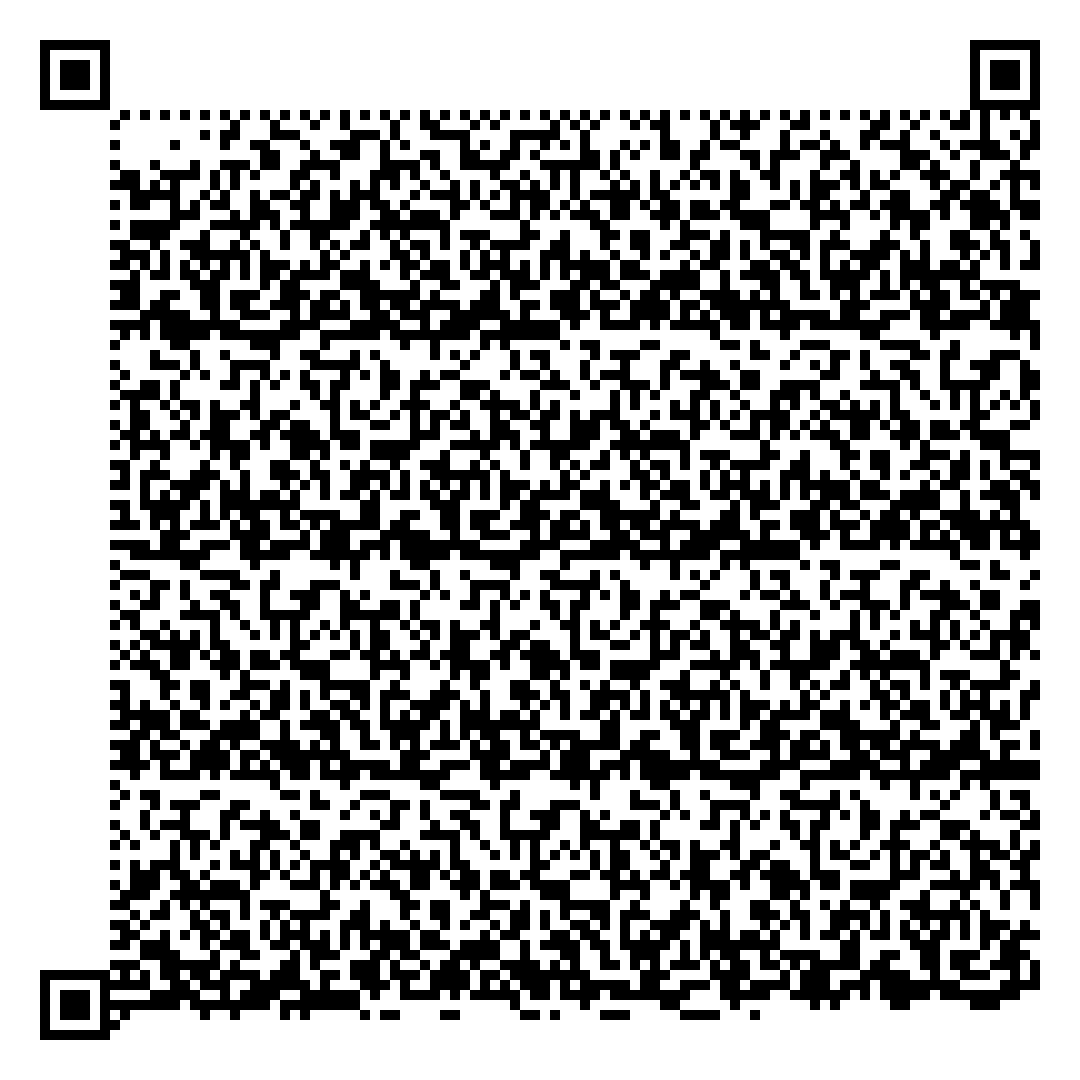
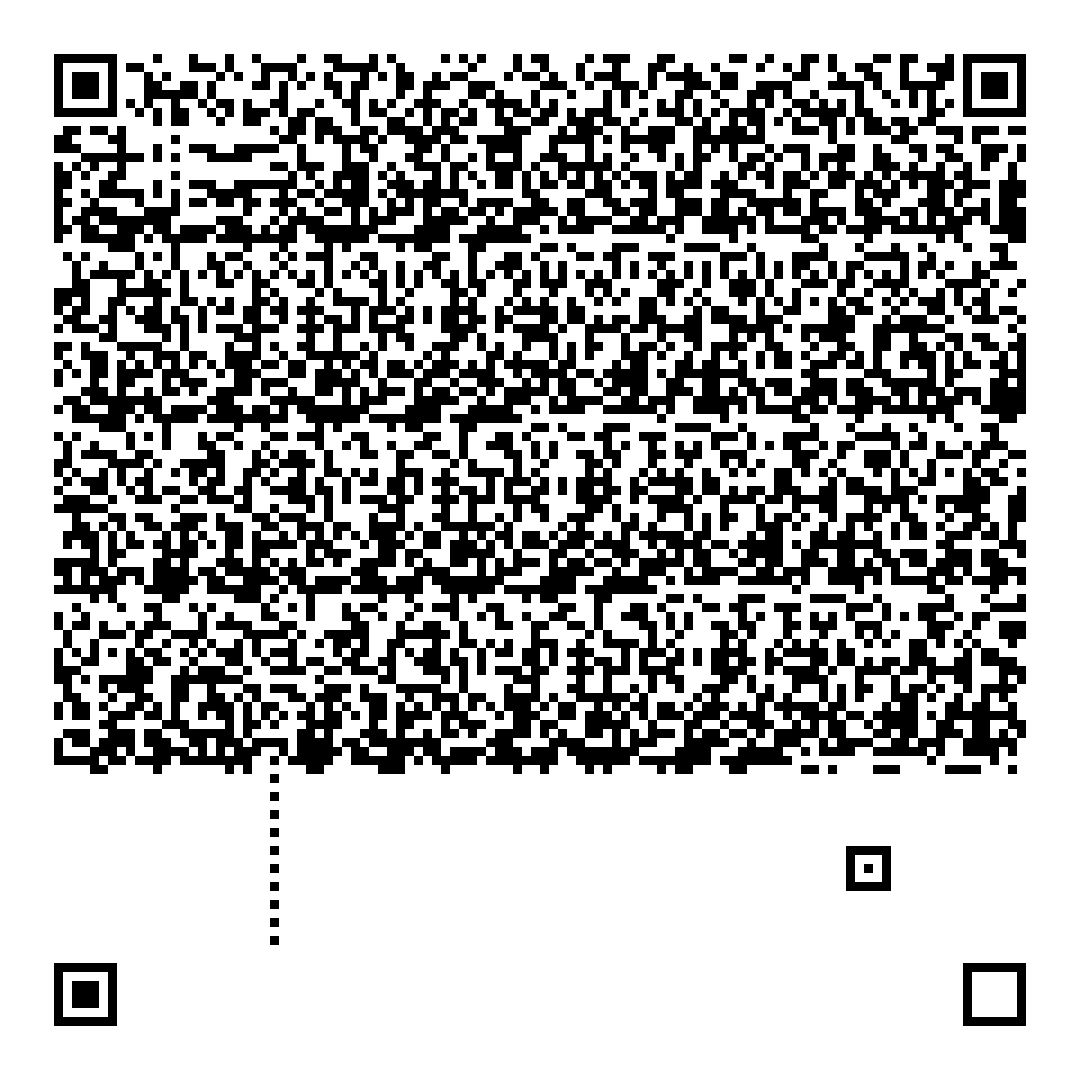
样例文件替换

diff --git a/src/encoder.cpp b/src/encoder.cpp
@@ -117,15 +117,18 @@ bool WriteManifest(const std::filesystem::path& manifest_path,
         return false;
     }
 
-    stream << "protocol_id\tfile\tframe_seq\tpayload_len\tcrc32_payload\tcrc32_header\n";
+    stream << "file\tframe_seq\tpayload_len\tcrc32_payload\tprotocol_id\tcrc32_header\tmodule_px\tlogical_grid_size\n";
     for (std::size_t index = 0; index < frames.size(); ++index) {
-        stream << protocol_v1::kProtocolId << '\t'
-               << FrameFileName(index) << '\t'
+        stream << FrameFileName(index) << '\t'
                << frames[index].header.frame_seq << '\t'
                << frames[index].header.payload_len_bytes << '\t'
                << std::uppercase << std::hex << std::setw(8) << std::setfill('0')
-               << frames[index].header.crc32_payload << '\t'
-               << std::setw(8) << frames[index].header.crc32_header
+               << frames[index].header.crc32_payload << std::dec << '\t'
+               << protocol_v1::kProtocolId << '\t'
+               << std::uppercase << std::hex << std::setw(8) << frames[index].header.crc32_header
+               << std::dec << '\t'
+               << protocol_v1::kModulePixels << '\t'
+               << protocol_v1::kLogicalGridSize
                << std::dec << '\n';
     }
     return true;
@@ -257,6 +260,25 @@ int CellToPixel(int coordinate, int module_pixels) {
     return protocol_v1::kQuietZonePixels + coordinate * module_pixels;
 }
 
+cv::Mat BuildPreviewLogicalFrame() {
+    cv::Mat logical_frame(protocol_v1::kLogicalGridSize, protocol_v1::kLogicalGridSize, CV_8UC1,
+                          cv::Scalar(255));
+
+    DrawFinder(logical_frame, kFinderTopLeftOrigin, kFinderTopLeftOrigin, false);
+    DrawFinder(logical_frame, kFinderTopRightOrigin, kFinderTopLeftOrigin, false);
+    DrawFinder(logical_frame, kFinderTopLeftOrigin, kFinderBottomLeftOrigin, false);
+    DrawFinder(logical_frame, kFinderTopRightOrigin, kFinderTopRightOrigin, true);
+    DrawTimingPatterns(logical_frame);
+    DrawAlignment(logical_frame);
+
+    for (const GridPoint& cell : protocol_v1::PayloadCells()) {
+        const bool black = ((cell.x + cell.y) % 2) == 0;
+        SetCell(logical_frame, cell.x, cell.y, black);
+    }
+
+    return logical_frame;
+}
+
 }  // namespace
 
 std::vector<uint8_t> ReadFileBytes(const std::filesystem::path& input_path) {
@@ -368,53 +390,79 @@ cv::Mat RenderPhysicalFrame(const cv::Mat& logical_frame, int module_pixels) {
 
 cv::Mat RenderLayoutGuide(int module_pixels) {
     const FrameHeader empty_header = MakeHeader(0, {});
-    cv::Mat guide = RenderPhysicalFrame(RenderLogicalFrame(empty_header, {}), module_pixels);
+    cv::Mat layout_panel = RenderPhysicalFrame(RenderLogicalFrame(empty_header, {}), module_pixels);
+    cv::Mat sample_panel = RenderPhysicalFrame(BuildPreviewLogicalFrame(), module_pixels);
 
     const int grid_px = protocol_v1::kLogicalGridSize * module_pixels;
     const int grid_offset = (protocol_v1::kPhysicalOutputPixels - grid_px) / 2;
 
-    cv::rectangle(guide,
+    cv::rectangle(layout_panel,
                   cv::Rect(grid_offset, grid_offset, grid_px, grid_px),
                   cv::Scalar(120, 120, 120), 2);
-    cv::rectangle(guide,
+    cv::rectangle(layout_panel,
+                  cv::Rect(CellToPixel(0, module_pixels),
+                           CellToPixel(0, module_pixels),
+                           protocol_v1::kFinderReserveSizeModules * module_pixels,
+                           protocol_v1::kFinderReserveSizeModules * module_pixels),
+                  cv::Scalar(90, 90, 180), 2);
+    cv::rectangle(layout_panel,
                   cv::Rect(CellToPixel(protocol_v1::kHeaderOriginX, module_pixels),
                            CellToPixel(protocol_v1::kHeaderOriginY, module_pixels),
                            protocol_v1::kHeaderWidthModules * module_pixels,
                            protocol_v1::kHeaderHeightModules * module_pixels),
                   cv::Scalar(0, 0, 220), 2);
-    cv::rectangle(guide,
+    cv::rectangle(layout_panel,
+                  cv::Rect(CellToPixel(8, module_pixels),
+                           CellToPixel(8, module_pixels),
+                           (100 - 8) * module_pixels,
+                           (100 - 8) * module_pixels),
+                  cv::Scalar(20, 60, 220), 2);
+    cv::rectangle(layout_panel,
                   cv::Rect(CellToPixel(protocol_v1::kAlignmentOriginX, module_pixels),
                            CellToPixel(protocol_v1::kAlignmentOriginY, module_pixels),
                            protocol_v1::kAlignmentSizeModules * module_pixels,
                            protocol_v1::kAlignmentSizeModules * module_pixels),
-                  cv::Scalar(0, 160, 0), 2);
-    cv::line(guide,
+                  cv::Scalar(0, 160, 140), 2);
+    cv::line(layout_panel,
              cv::Point(CellToPixel(protocol_v1::kTimingStart, module_pixels), CellToPixel(protocol_v1::kTimingHorizontalY, module_pixels)),
              cv::Point(CellToPixel(protocol_v1::kTimingEnd + 1, module_pixels), CellToPixel(protocol_v1::kTimingHorizontalY, module_pixels)),
              cv::Scalar(255, 120, 0), 2);
-    cv::line(guide,
+    cv::line(layout_panel,
              cv::Point(CellToPixel(protocol_v1::kTimingVerticalX, module_pixels), CellToPixel(protocol_v1::kTimingStart, module_pixels)),
              cv::Point(CellToPixel(protocol_v1::kTimingVerticalX, module_pixels), CellToPixel(protocol_v1::kTimingEnd + 1, module_pixels)),
              cv::Scalar(255, 120, 0), 2);
 
-    cv::putText(guide, "V1.6-108-4F layout", cv::Point(20, 35), cv::FONT_HERSHEY_SIMPLEX,
-                0.8, cv::Scalar(20, 20, 20), 2);
-    cv::putText(guide, "Quiet zone: 6 modules (54 px)", cv::Point(20, 68), cv::FONT_HERSHEY_SIMPLEX,
-                0.65, cv::Scalar(20, 20, 20), 2);
-    cv::putText(guide, "Grid: 108x108, module=9 px", cv::Point(20, 98), cv::FONT_HERSHEY_SIMPLEX,
-                0.65, cv::Scalar(20, 20, 20), 2);
-    cv::putText(guide, "Header: 16x10 @ (8,8)", cv::Point(20, 128), cv::FONT_HERSHEY_SIMPLEX,
-                0.65, cv::Scalar(0, 0, 220), 2);
-    cv::putText(guide, "Timing H: y=24, x=8..99", cv::Point(20, 158), cv::FONT_HERSHEY_SIMPLEX,
-                0.62, cv::Scalar(255, 120, 0), 2);
-    cv::putText(guide, "Timing V: x=24, y=8..99", cv::Point(20, 188), cv::FONT_HERSHEY_SIMPLEX,
-                0.62, cv::Scalar(255, 120, 0), 2);
-    cv::putText(guide, "Alignment: 5x5 @ (88,88)", cv::Point(20, 218), cv::FONT_HERSHEY_SIMPLEX,
-                0.62, cv::Scalar(0, 160, 0), 2);
-    cv::putText(guide, "Payload max (demo): 1024 bytes", cv::Point(20, 248), cv::FONT_HERSHEY_SIMPLEX,
-                0.62, cv::Scalar(40, 40, 160), 2);
+    cv::putText(layout_panel, "Quiet zone: 6 modules (54 px)", cv::Point(18, 34), cv::FONT_HERSHEY_SIMPLEX,
+                0.6, cv::Scalar(20, 20, 20), 2);
+    cv::putText(layout_panel, "Grid: 108x108, module: 9 px (preview scaled)", cv::Point(18, 62), cv::FONT_HERSHEY_SIMPLEX,
+                0.6, cv::Scalar(20, 20, 20), 2);
+    cv::putText(layout_panel, "Finder reserve: 8x8 each", cv::Point(40, 140), cv::FONT_HERSHEY_SIMPLEX,
+                0.58, cv::Scalar(90, 90, 180), 2);
+    cv::putText(layout_panel, "Header: 16x10 (160 bits)", cv::Point(130, 140), cv::FONT_HERSHEY_SIMPLEX,
+                0.58, cv::Scalar(0, 0, 220), 2);
+    cv::putText(layout_panel, "Payload scan area: 108x108 minus reserved mask", cv::Point(140, 175), cv::FONT_HERSHEY_SIMPLEX,
+                0.58, cv::Scalar(20, 60, 220), 2);
+    cv::putText(layout_panel, "Timing H: y=24, x=8..99", cv::Point(140, 228), cv::FONT_HERSHEY_SIMPLEX,
+                0.58, cv::Scalar(255, 120, 0), 2);
+    cv::putText(layout_panel, "Timing V: x=24, y=8..99", cv::Point(140, 870), cv::FONT_HERSHEY_SIMPLEX,
+                0.58, cv::Scalar(255, 120, 0), 2);
+    cv::putText(layout_panel, "Alignment 5x5", cv::Point(690, 780), cv::FONT_HERSHEY_SIMPLEX,
+                0.58, cv::Scalar(0, 160, 140), 2);
+    cv::putText(layout_panel, "BR finder: 3x3 center inverted", cv::Point(520, 920), cv::FONT_HERSHEY_SIMPLEX,
+                0.58, cv::Scalar(20, 20, 20), 2);
+    cv::putText(layout_panel, "Theoretical payload: 1380 bytes", cv::Point(140, 202), cv::FONT_HERSHEY_SIMPLEX,
+                0.58, cv::Scalar(180, 60, 60), 2);
 
-    return guide;
+    const int canvas_width = 1640;
+    const int canvas_height = 920;
+    cv::Mat canvas(canvas_height, canvas_width, CV_8UC3, cv::Scalar(244, 244, 244));
+    layout_panel.copyTo(canvas(cv::Rect(18, 18, layout_panel.cols, layout_panel.rows)));
+    sample_panel.copyTo(canvas(cv::Rect(830, 18, sample_panel.cols, sample_panel.rows)));
+    cv::putText(canvas, "V1.6-108-4F Layout with Region Specs", cv::Point(55, 885), cv::FONT_HERSHEY_SIMPLEX,
+                0.95, cv::Scalar(10, 10, 10), 2);
+    cv::putText(canvas, "V1.6-108-4F Sample Render", cv::Point(1060, 885), cv::FONT_HERSHEY_SIMPLEX,
+                0.95, cv::Scalar(10, 10, 10), 2);
+    return canvas;
 }
 
 bool WriteProtocolSamples(const std::filesystem::path& output_dir,
@@ -446,13 +494,17 @@ bool WriteProtocolSamples(const std::filesystem::path& output_dir,
     const auto full_header = MakeHeader(0, full_payload);
     const auto short_header = MakeHeader(1, short_payload);
 
-    manifest << "protocol_id\tfile\tframe_seq\tpayload_len\tcrc32_payload\tcrc32_header\n";
-    manifest << protocol_v1::kProtocolId << "\tsample_full_frame.png\t0\t" << full_payload.size() << '\t'
+    manifest << "file\tframe_seq\tpayload_len\tcrc32_payload\tprotocol_id\tcrc32_header\tmodule_px\tlogical_grid_size\n";
+    manifest << "sample_full_frame.png\t0\t" << full_payload.size() << '\t'
              << std::uppercase << std::hex << std::setw(8) << std::setfill('0')
-             << full_header.crc32_payload << '\t' << std::setw(8) << full_header.crc32_header << std::dec << '\n';
-    manifest << protocol_v1::kProtocolId << "\tsample_short_frame.png\t1\t" << short_payload.size() << '\t'
+             << full_header.crc32_payload << std::dec << '\t'
+             << protocol_v1::kProtocolId << '\t' << std::setw(8) << full_header.crc32_header << std::dec << '\t'
+             << protocol_v1::kModulePixels << '\t' << protocol_v1::kLogicalGridSize << '\n';
+    manifest << "sample_short_frame.png\t1\t" << short_payload.size() << '\t'
              << std::uppercase << std::hex << std::setw(8) << std::setfill('0')
-             << short_header.crc32_payload << '\t' << std::setw(8) << short_header.crc32_header << std::dec << '\n';
+             << short_header.crc32_payload << std::dec << '\t'
+             << protocol_v1::kProtocolId << '\t' << std::setw(8) << short_header.crc32_header << std::dec << '\t'
+             << protocol_v1::kModulePixels << '\t' << protocol_v1::kLogicalGridSize << '\n';
     return true;
 }
 
